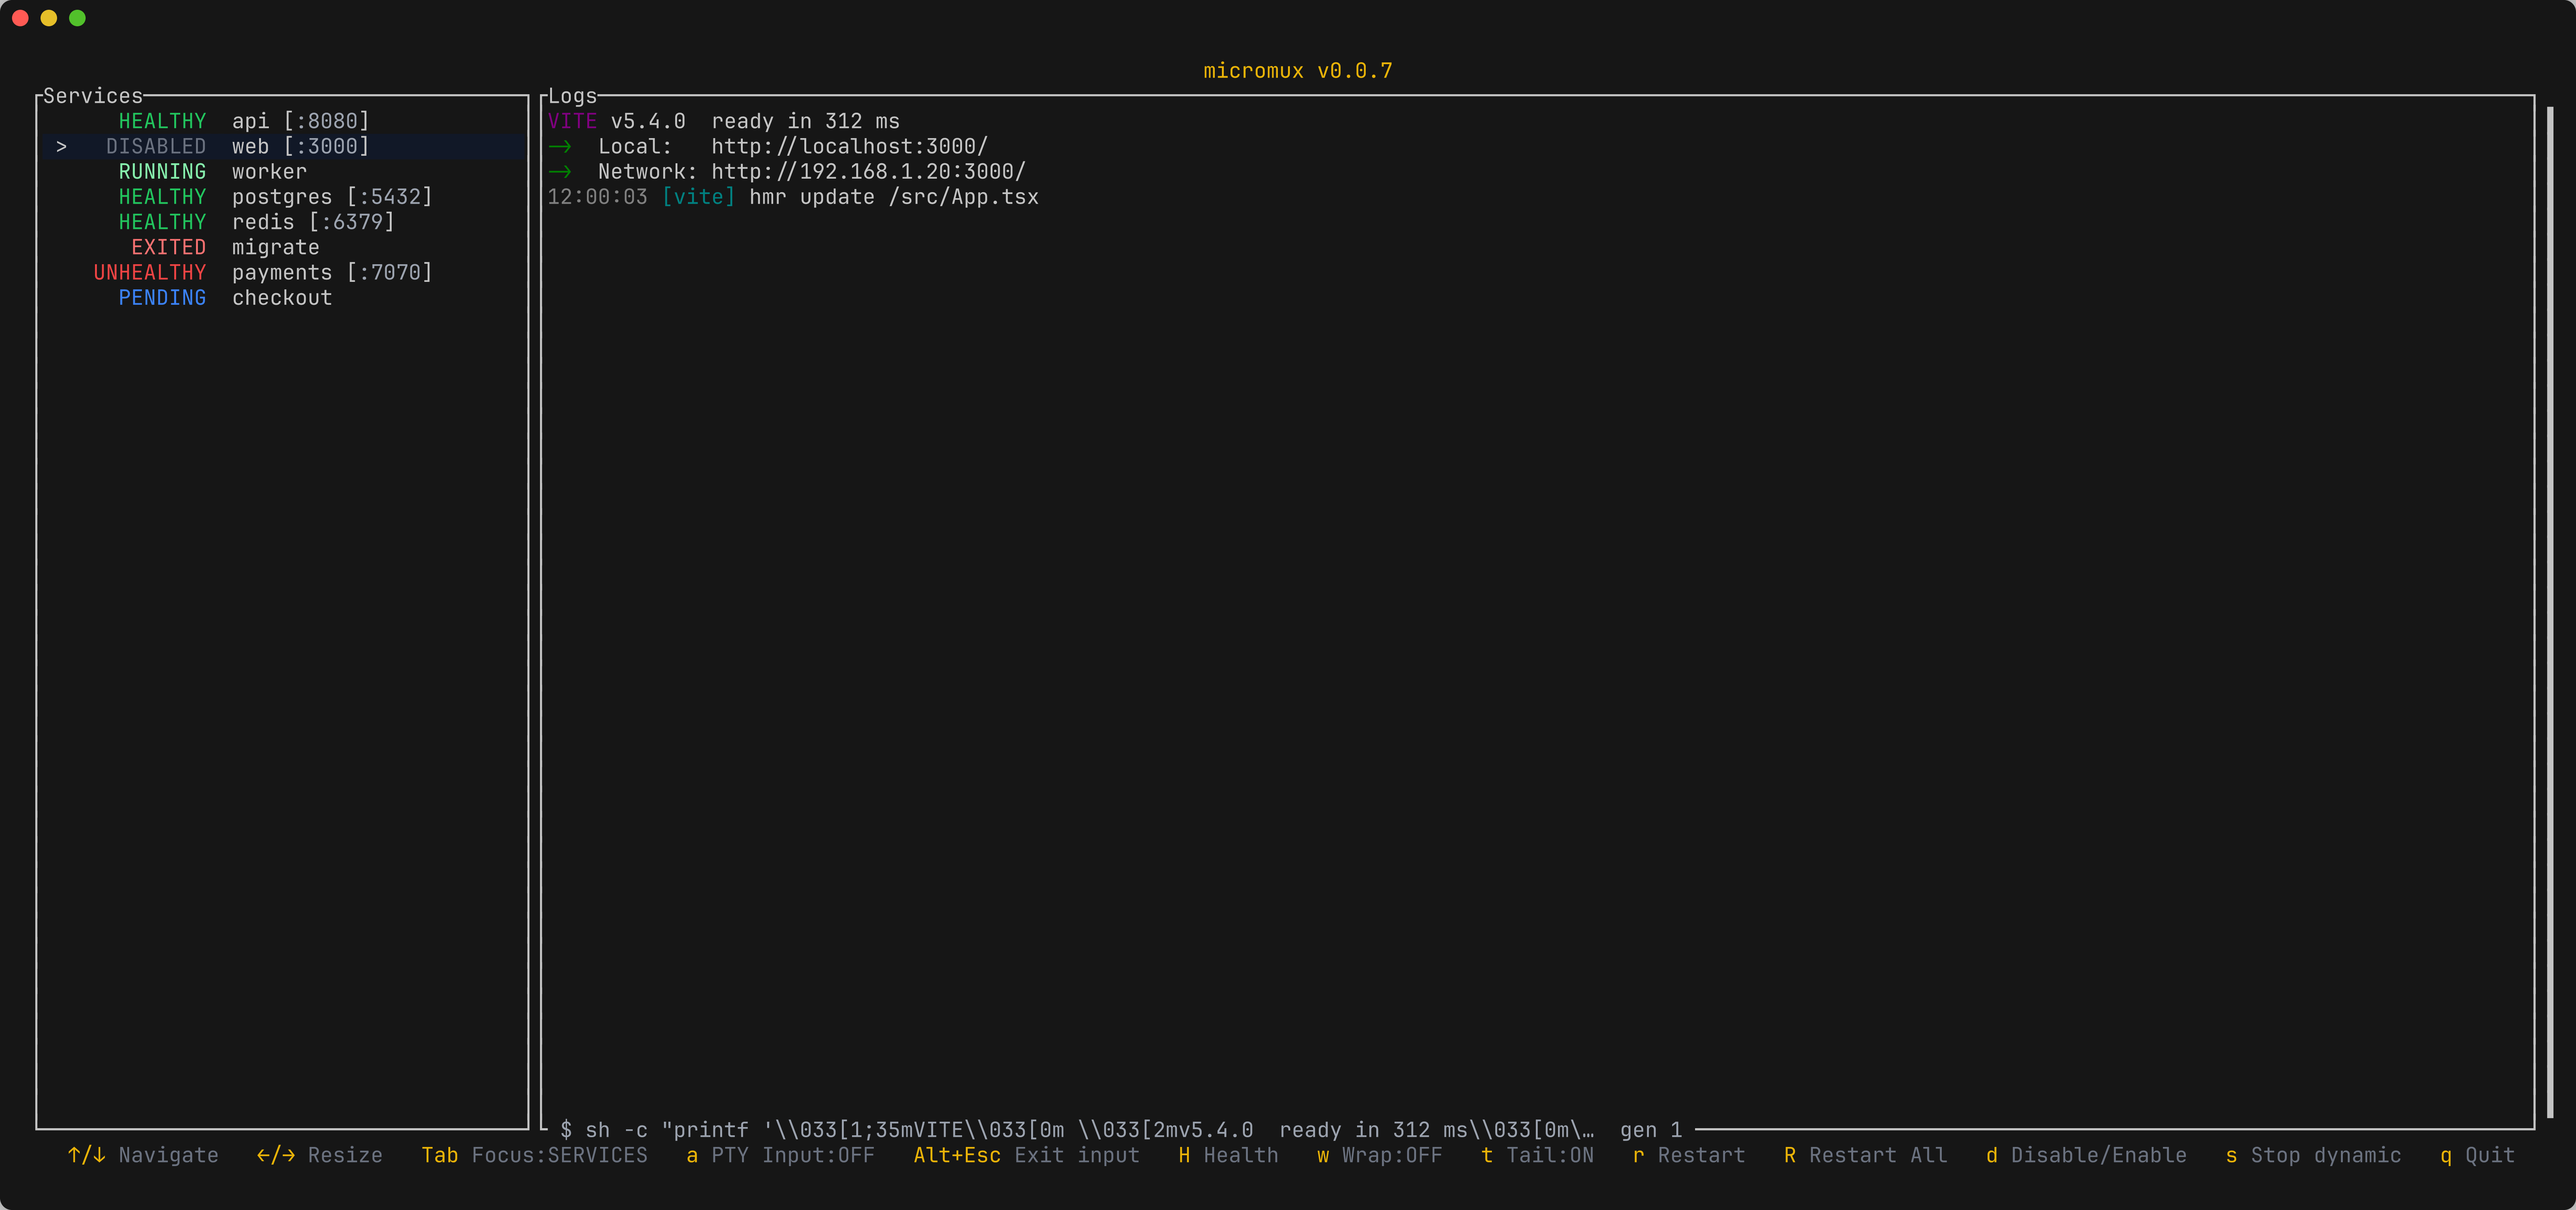
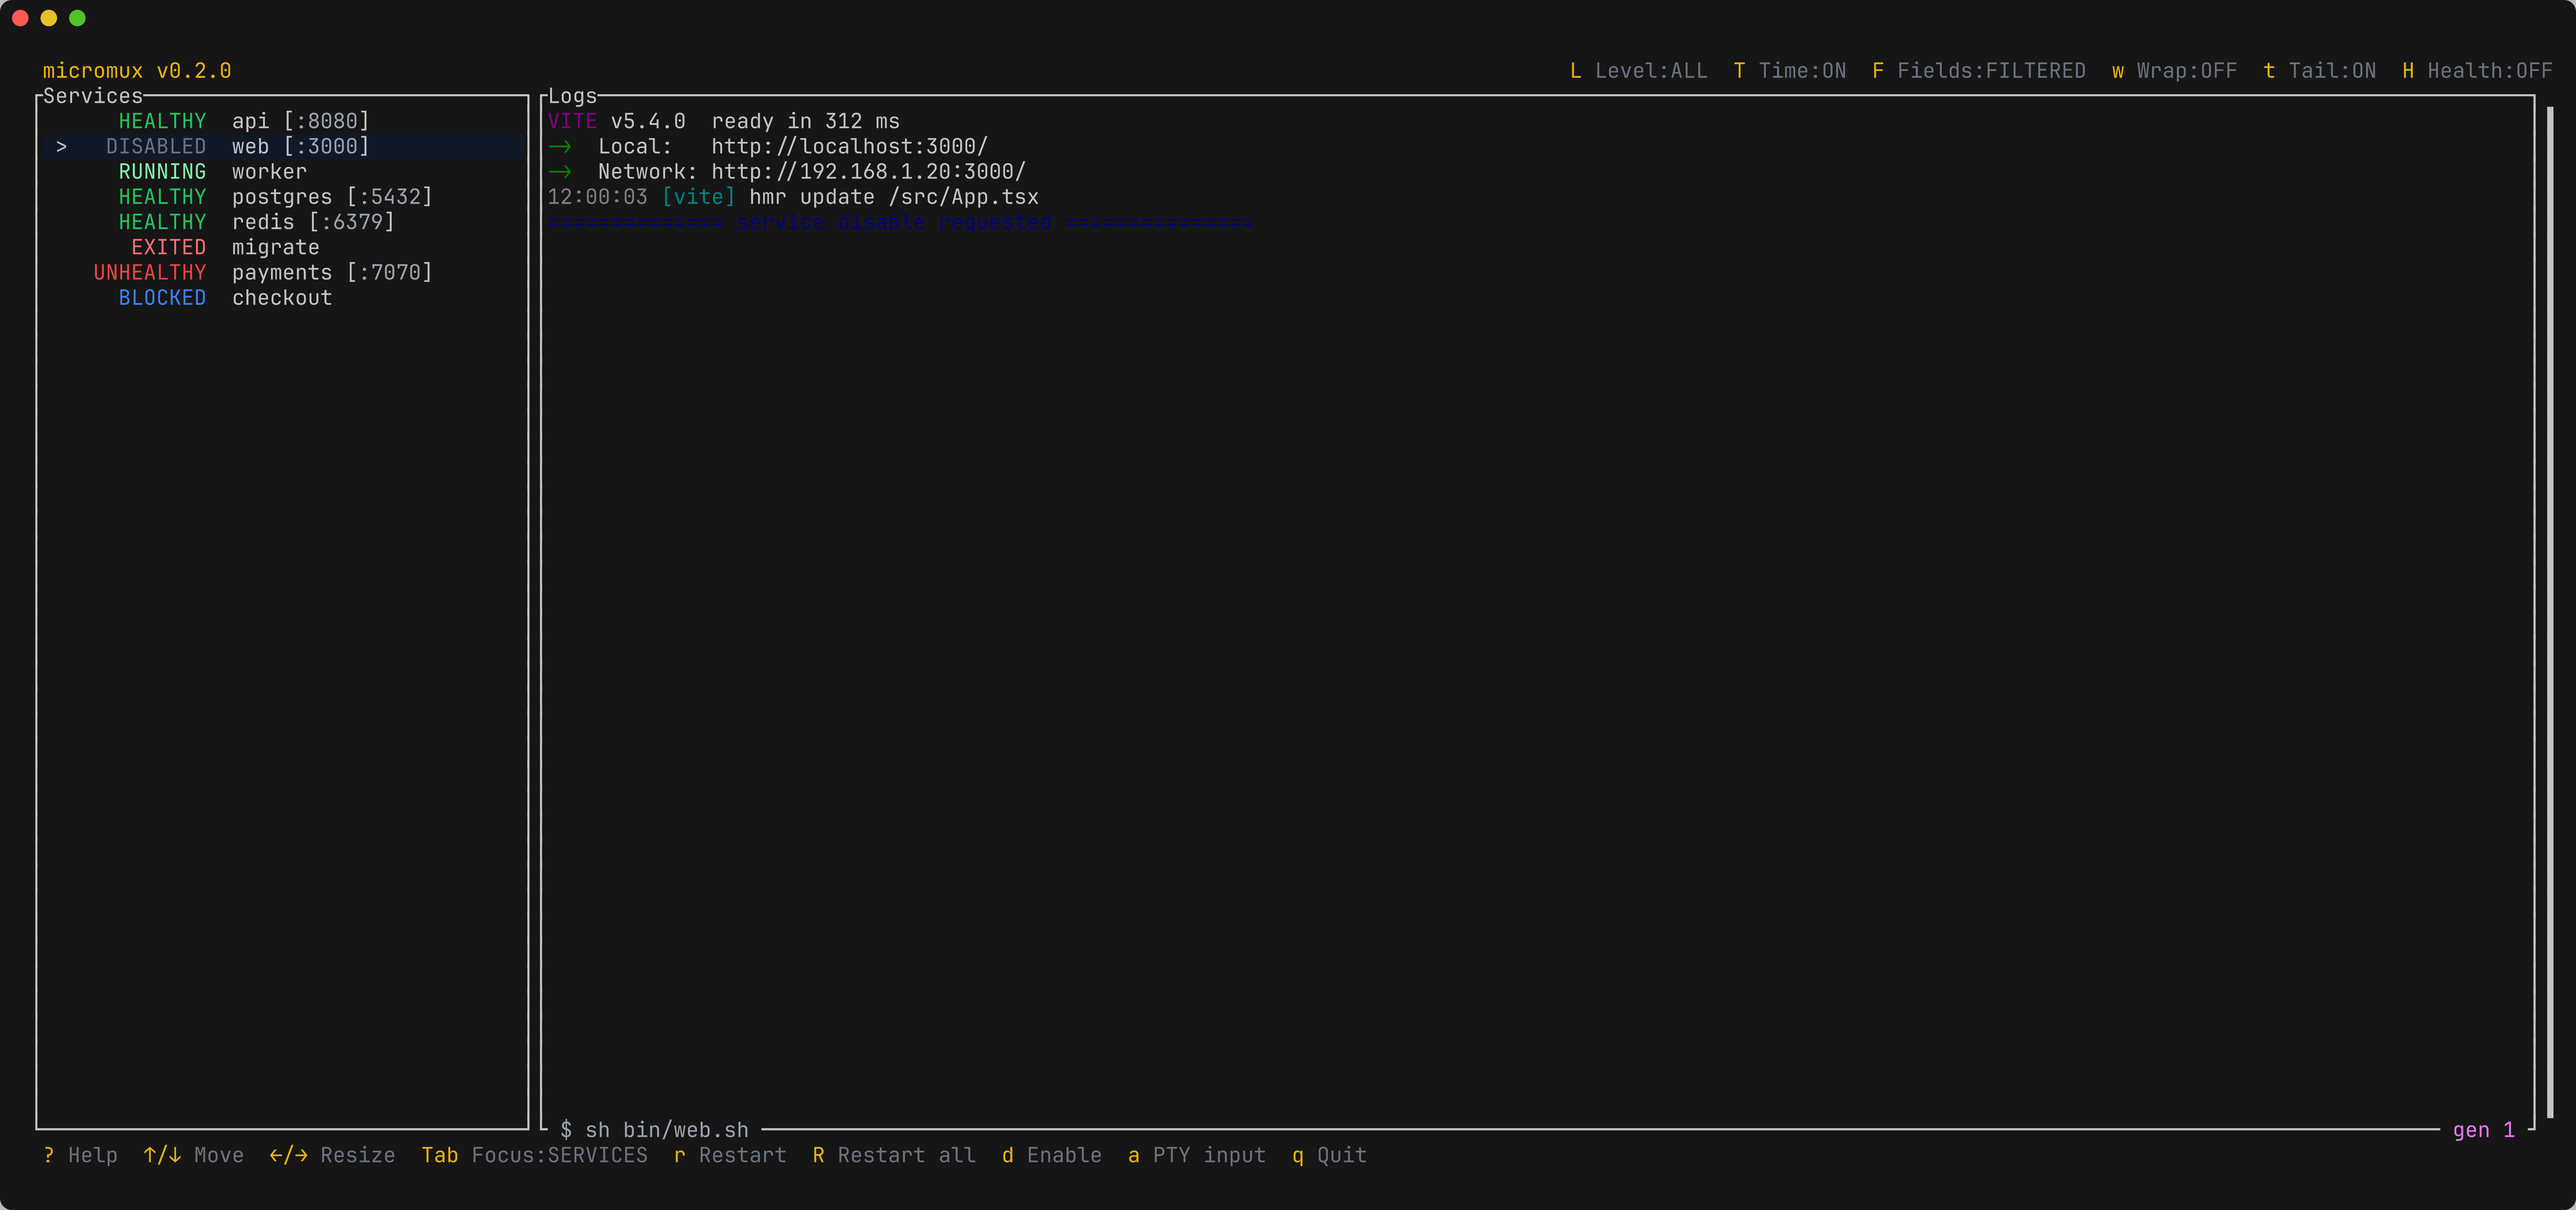
docs(screenshots): run the demo from scripts and show structured logs
Each demo service now runs a script in examples/demo/bin, so the logs
pane border shows a short command instead of escaped printf bodies. The
worker emits tracing-style JSON and hides its source location and span
fields, and a new structured-logs screenshot shows those records with
timestamps. The screenshot driver pins TZ to UTC so the fixed record
times render the same everywhere.

The demo runs its scripts through sh with an explicit working_dir: a
service without one runs in the home directory, and a ./relative
program under working_dir fails to exec on Linux.

All screenshots and the ctl ls snippet are regenerated, the latter now
reporting checkout as blocked.

diff --git a/docs/assets/terminals/services.html b/docs/assets/terminals/services.html
@@ -7,4 +7,4 @@ postgres             id=postgres origin=configured desired=Enabled execution=Run
 redis                id=redis origin=configured desired=Enabled execution=Running health=Healthy generation=1
 migrate              id=migrate origin=configured desired=Enabled execution=Exited health=- generation=1
 payments             id=payments origin=configured desired=Enabled execution=Running health=Unhealthy generation=1
-checkout             id=checkout origin=configured desired=Enabled execution=Pending health=- generation=0
+checkout             id=checkout origin=configured desired=Enabled execution=Blocked health=- generation=0

diff --git a/crates/micromux-screenshot/src/main.rs b/crates/micromux-screenshot/src/main.rs
@@ -95,6 +95,14 @@ const SCENARIOS: &[Scenario] = &[
         rows: 44,
         keys: &[b"j" as &[u8], b"d"],
     },
+    // Structured logs: select `worker` (two rows below `api`), whose JSON records lead with their
+    // timestamps while the fields its config hides stay out of the pane.
+    Scenario {
+        name: "structured-logs",
+        cols: 200,
+        rows: 44,
+        keys: &[b"jj" as &[u8]],
+    },
 ];
 
 fn main() -> Result<(), Error> {
@@ -188,6 +196,9 @@ fn capture(micromux: &Path, example_dir: &Path, scenario: &Scenario) -> Result<S
     let mut cmd = CommandBuilder::new(micromux);
     cmd.cwd(example_dir);
     cmd.env("TERM", "xterm-256color");
+    // The TUI shows log timestamps in local time, so pin the zone to render the demo records'
+    // fixed timestamps identically on every machine.
+    cmd.env("TZ", "UTC");
     // micromux discovers `micromux.yaml` in its working directory, so no --config is needed.
 
     let mut child = pair

diff --git a/docs/content/docs/quick-start.md b/docs/content/docs/quick-start.md
@@ -52,7 +52,7 @@ micromux starts every enabled service, honoring `depends_on` — here `worker` w
 
 The sidebar lists your services; each row shows its lifecycle state. Selecting a service shows its live log output in the main pane.
 
-{{< figure src="images/overview.png" alt="The micromux sidebar with services in different states next to a log pane" caption="Each row carries a service's state: healthy, running, exited (completed), unhealthy, or pending." >}}
+{{< figure src="images/overview.png" alt="The micromux sidebar with services in different states next to a log pane" caption="Each row carries a service's state: healthy, running, exited (completed), unhealthy, or blocked on a dependency." >}}
 
 Move with `j`/`k` (or the arrow keys), restart the selected service with `r`, and toggle it disabled with `d`. When a healthcheck is failing, open the healthcheck pane with `H` to see the probe command and its output:
 

diff --git a/docs/content/docs/tui.md b/docs/content/docs/tui.md
@@ -48,6 +48,8 @@ For services that emit JSON logs, the log pane can show less than the service em
 
 The logs pane's top-right corner names any active filter, such as `level ≥ INFO · 4 fields hidden`. These settings only shape the display: `micromux ctl logs` and the MCP log tools always return every record and field.
 
+{{< figure src="images/structured-logs.png" alt="Structured JSON log lines led by their timestamps, with the pane's top-right corner reading 4 fields hidden" caption="A service's JSON logs with timestamps, minus the source location and span fields its config hides." >}}
+
 ## Sending input to a service
 
 Some processes want input — a REPL, a prompt, a dev server waiting on a keypress. Press `a` to enter **input mode**: keystrokes are forwarded to the selected service's PTY until you leave input mode with `Alt+Esc`.

diff --git a/README.md b/README.md
@@ -192,6 +192,12 @@ services:
         span: show
 ```
 
+<p align="center">
+  <img src="https://raw.githubusercontent.com/romnn/micromux/main/docs/static/images/structured-logs.png" alt="micromux showing structured JSON logs with timestamps and hidden fields" width="820" />
+  <br />
+  <sub>Structured JSON logs led by their timestamps, with the fields the config hides left out.</sub>
+</p>
+
 Retain bounded disk-backed logs for recent runs so agents can inspect crash output after restarts.
 The in-memory TUI/default log stream stays bounded and fast; each disk run log preserves its newest
 64 MiB segment and old runs rotate by run count. `get_logs` returns a bounded tail; use
